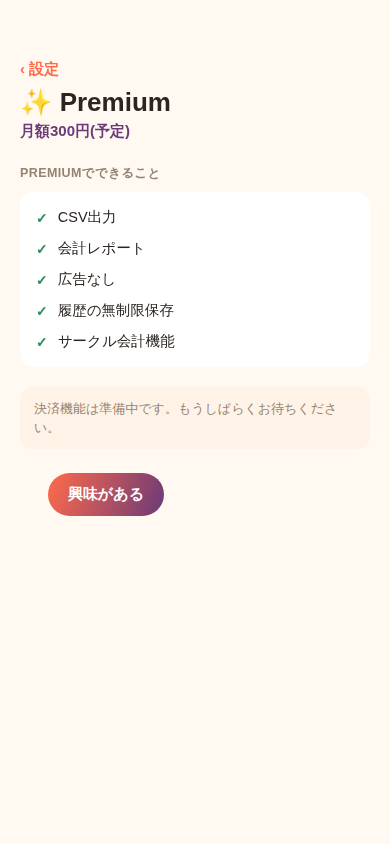
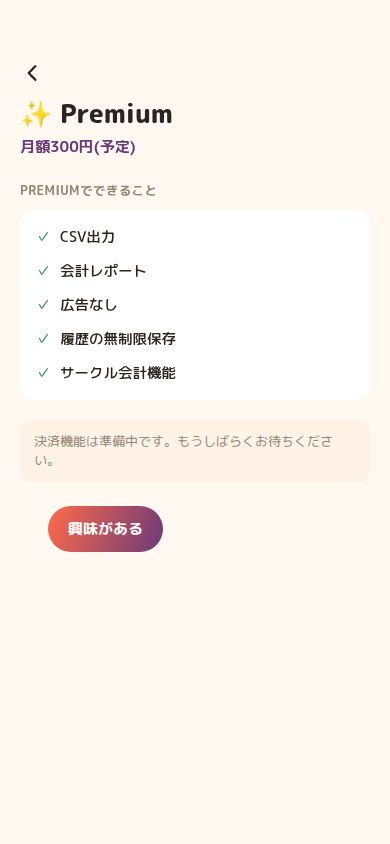
kashikari: 他の画面のアイコン表記を統一する
「他のui画面にも同じように修正して」という指摘への対応。
スキーマ変更なし。

グループ詳細画面(GroupScreen)は、これまでの一連の修正で「戻る/
進むはIonicons、テキストの矢印記号は使わない」という表記に
統一されていたが、他の画面(設定・Premium・利用状況)は以前のまま
「‹ 戻る」「›」のようなテキストの矢印記号が残っていた。統一のため、
以下を変更した。

- SettingsScreen.tsx・PremiumScreen.tsx・UsageScreen.tsx: 戻る
  ボタンをテキスト(「‹ 戻る」等)からIonicons(chevron-back、
  アイコンのみ)に変更。設定画面の「✨ Premium」「📊 利用状況」の
  行末にあったテキストの「›」もIonicons(chevron-forward)に変更
- 上記に伴い、t.settings.back / t.premium.back / t.usage.back /
  t.group.back(グループ画面ではアクセシビリティラベルとしてのみ
  使用)のi18n文字列から、視覚的には表示されなくなった「‹ 」の
  接頭辞を削除(ja/en両方)

SettingsScreen.tsx・PremiumScreen.tsx・UsageScreen.tsx・
i18n/strings.tsを変更。グループ一覧・グループ詳細(ホーム/履歴/
台帳/招待)・設定・Premium・利用状況の全画面をPlaywrightで確認し、
スクリーンショットをdocs/screenshots/に反映した。

tsc --noEmit / expo export --platform web(通常+デモモード)とも
問題なし。

Claude-Session: https://claude.ai/code/session_016w6H5fipiVvbtfX7sgu87W

Changed region(s): [[0.0308, 0.0616, 0.4615, 0.6777], [0.4615, 0.4621, 0.8615, 0.5545], [0.0923, 0.4005, 0.1231, 0.4313]]

diff --git a/personal-side-projects/kashikari/mobile/src/screens/SettingsScreen.tsx b/personal-side-projects/kashikari/mobile/src/screens/SettingsScreen.tsx
@@ -1,3 +1,4 @@
+import { Ionicons } from '@expo/vector-icons';
 import { useState } from 'react';
 import { Pressable, ScrollView, StyleSheet, Text, TextInput, View } from 'react-native';
 
@@ -46,8 +47,10 @@ export default function SettingsScreen({ profile, onBack, onChangeDisplayName, o
     <View style={styles.wrap}>
       <ScrollView contentContainerStyle={styles.content}>
         <View style={styles.headerRow}>
-          <Pressable onPress={onBack} hitSlop={10}>
-            <Text style={styles.back}>{t.settings.back}</Text>
+          {/* グループ画面の「‹」アイコンに合わせて、テキストの矢印
+              ("‹ 戻る")からIonicons(chevron-back)に統一した。 */}
+          <Pressable onPress={onBack} hitSlop={10} accessibilityLabel={t.settings.back}>
+            <Ionicons name="chevron-back" size={24} color={colors.ink} />
           </Pressable>
         </View>
         <Text style={styles.title}>{t.settings.title}</Text>
@@ -83,12 +86,12 @@ export default function SettingsScreen({ profile, onBack, onChangeDisplayName, o
 
         <Pressable onPress={onOpenPremium} style={styles.premiumRow}>
           <Text style={styles.premiumRowText}>{t.settings.premiumRow}</Text>
-          <Text style={styles.premiumChevron}>›</Text>
+          <Ionicons name="chevron-forward" size={18} color={colors.muted} />
         </Pressable>
 
         <Pressable onPress={onOpenUsage} style={[styles.premiumRow, styles.usageRow]}>
           <Text style={styles.usageRowText}>{t.settings.usageRow}</Text>
-          <Text style={styles.premiumChevron}>›</Text>
+          <Ionicons name="chevron-forward" size={18} color={colors.muted} />
         </Pressable>
 
         <Text style={styles.sectionLabel}>{t.settings.about}</Text>
@@ -122,7 +125,6 @@ const styles = StyleSheet.create({
   wrap: { flex: 1, backgroundColor: colors.bg },
   content: { padding: 20, paddingTop: 60, paddingBottom: 60 },
   headerRow: { marginBottom: 4 },
-  back: { ...fonts.bodySemiBold, fontSize: 15, color: colors.accent },
   title: { ...fonts.display, fontSize: 26, color: colors.ink, marginTop: 4, marginBottom: 20 },
   sectionLabel: {
     ...fonts.bodySemiBold,
@@ -182,7 +184,6 @@ const styles = StyleSheet.create({
     borderColor: colors.line,
   },
   premiumRowText: { ...fonts.bodySemiBold, fontSize: 15, color: colors.plum },
-  premiumChevron: { ...fonts.bodySemiBold, fontSize: 18, color: colors.muted },
   usageRow: { marginTop: 10 },
   usageRowText: { ...fonts.bodySemiBold, fontSize: 15, color: colors.ink },
   aboutText: { ...fonts.bodySemiBold, fontSize: 15, color: colors.ink },

diff --git a/personal-side-projects/kashikari/mobile/src/i18n/strings.ts b/personal-side-projects/kashikari/mobile/src/i18n/strings.ts
@@ -35,7 +35,7 @@ export const ja = {
     settingsButton: '設定',
   },
   group: {
-    back: '‹ グループ',
+    back: 'グループ',
     leave: '抜ける',
     changeHint: '変更',
     invite: '招待する',
@@ -199,7 +199,7 @@ export const ja = {
     title: '設定',
     // グループ詳細画面からも開けるようになり、「戻る」の実際の遷移先が
     // 常にグループ一覧とは限らなくなったため、行き先を特定しない文言にする。
-    back: '‹ 戻る',
+    back: '戻る',
     language: '言語',
     languageJa: '日本語',
     languageEn: 'English',
@@ -213,7 +213,7 @@ export const ja = {
     savedNote: '保存しました',
   },
   premium: {
-    back: '‹ 設定',
+    back: '設定',
     title: '✨ Premium',
     price: '月額300円(予定)',
     featuresTitle: 'Premiumでできること',
@@ -224,7 +224,7 @@ export const ja = {
     toastMessage: 'ありがとうございます!リリース時に優先案内します',
   },
   usage: {
-    back: '‹ 設定',
+    back: '設定',
     title: '📊 利用状況',
     loading: '読み込み中...',
     loadFailed: '読み込みに失敗しました',
@@ -289,7 +289,7 @@ export const en: Strings = {
     settingsButton: 'Settings',
   },
   group: {
-    back: '‹ Groups',
+    back: 'Groups',
     leave: 'Leave',
     changeHint: 'Change',
     invite: 'Invite',
@@ -448,7 +448,7 @@ export const en: Strings = {
   },
   settings: {
     title: 'Settings',
-    back: '‹ Back',
+    back: 'Back',
     language: 'Language',
     languageJa: '日本語',
     languageEn: 'English',
@@ -462,7 +462,7 @@ export const en: Strings = {
     savedNote: 'Saved',
   },
   premium: {
-    back: '‹ Settings',
+    back: 'Settings',
     title: '✨ Premium',
     price: '$3/month (planned)',
     featuresTitle: 'What you get with Premium',
@@ -473,7 +473,7 @@ export const en: Strings = {
     toastMessage: "Thanks! We'll give you early access when it launches",
   },
   usage: {
-    back: '‹ Settings',
+    back: 'Settings',
     title: '📊 Usage',
     loading: 'Loading...',
     loadFailed: 'Failed to load',

diff --git a/personal-side-projects/kashikari/mobile/src/screens/UsageScreen.tsx b/personal-side-projects/kashikari/mobile/src/screens/UsageScreen.tsx
@@ -1,3 +1,4 @@
+import { Ionicons } from '@expo/vector-icons';
 import { useEffect, useState } from 'react';
 import { Pressable, RefreshControl, ScrollView, StyleSheet, Text, View } from 'react-native';
 
@@ -81,8 +82,10 @@ export default function UsageScreen({ onBack, fetchStats }: Props) {
         refreshControl={<RefreshControl refreshing={loading} onRefresh={load} tintColor={colors.accent} />}
       >
         <View style={styles.headerRow}>
-          <Pressable onPress={onBack} hitSlop={10}>
-            <Text style={styles.back}>{t.usage.back}</Text>
+          {/* グループ画面の「‹」アイコンに揃え、テキストの矢印から
+              Ionicons(chevron-back)に統一した。 */}
+          <Pressable onPress={onBack} hitSlop={10} accessibilityLabel={t.usage.back}>
+            <Ionicons name="chevron-back" size={24} color={colors.ink} />
           </Pressable>
         </View>
         <Text style={styles.title}>{t.usage.title}</Text>
@@ -161,7 +164,6 @@ const styles = StyleSheet.create({
   wrap: { flex: 1, backgroundColor: colors.bg },
   content: { padding: 20, paddingTop: 60, paddingBottom: 60 },
   headerRow: { marginBottom: 4 },
-  back: { ...fonts.bodySemiBold, fontSize: 15, color: colors.accent },
   title: { ...fonts.display, fontSize: 26, color: colors.ink, marginTop: 4, marginBottom: 20 },
   statusText: { ...fonts.body, fontSize: 14.5, color: colors.muted, marginTop: 12 },
   emptyWrap: { alignItems: 'center', paddingVertical: 48 },

diff --git a/personal-side-projects/kashikari/mobile/src/screens/PremiumScreen.tsx b/personal-side-projects/kashikari/mobile/src/screens/PremiumScreen.tsx
@@ -1,3 +1,4 @@
+import { Ionicons } from '@expo/vector-icons';
 import { useEffect, useState } from 'react';
 import { Pressable, ScrollView, StyleSheet, Text, View } from 'react-native';
 
@@ -37,8 +38,10 @@ export default function PremiumScreen({ onBack, onView, onInterest }: Props) {
     <View style={styles.wrap}>
       <ScrollView contentContainerStyle={styles.content}>
         <View style={styles.headerRow}>
-          <Pressable onPress={onBack} hitSlop={10}>
-            <Text style={styles.back}>{t.premium.back}</Text>
+          {/* グループ画面の「‹」アイコンに揃え、テキストの矢印から
+              Ionicons(chevron-back)に統一した。 */}
+          <Pressable onPress={onBack} hitSlop={10} accessibilityLabel={t.premium.back}>
+            <Ionicons name="chevron-back" size={24} color={colors.ink} />
           </Pressable>
         </View>
         <Text style={styles.title}>{t.premium.title}</Text>
@@ -74,7 +77,6 @@ const styles = StyleSheet.create({
   wrap: { flex: 1, backgroundColor: colors.bg },
   content: { padding: 20, paddingTop: 60, paddingBottom: 60 },
   headerRow: { marginBottom: 4 },
-  back: { ...fonts.bodySemiBold, fontSize: 15, color: colors.accent },
   title: { ...fonts.display, fontSize: 26, color: colors.ink, marginTop: 4, marginBottom: 4 },
   price: { ...fonts.bodySemiBold, fontSize: 15, color: colors.plum, marginBottom: 24 },
   sectionLabel: {
